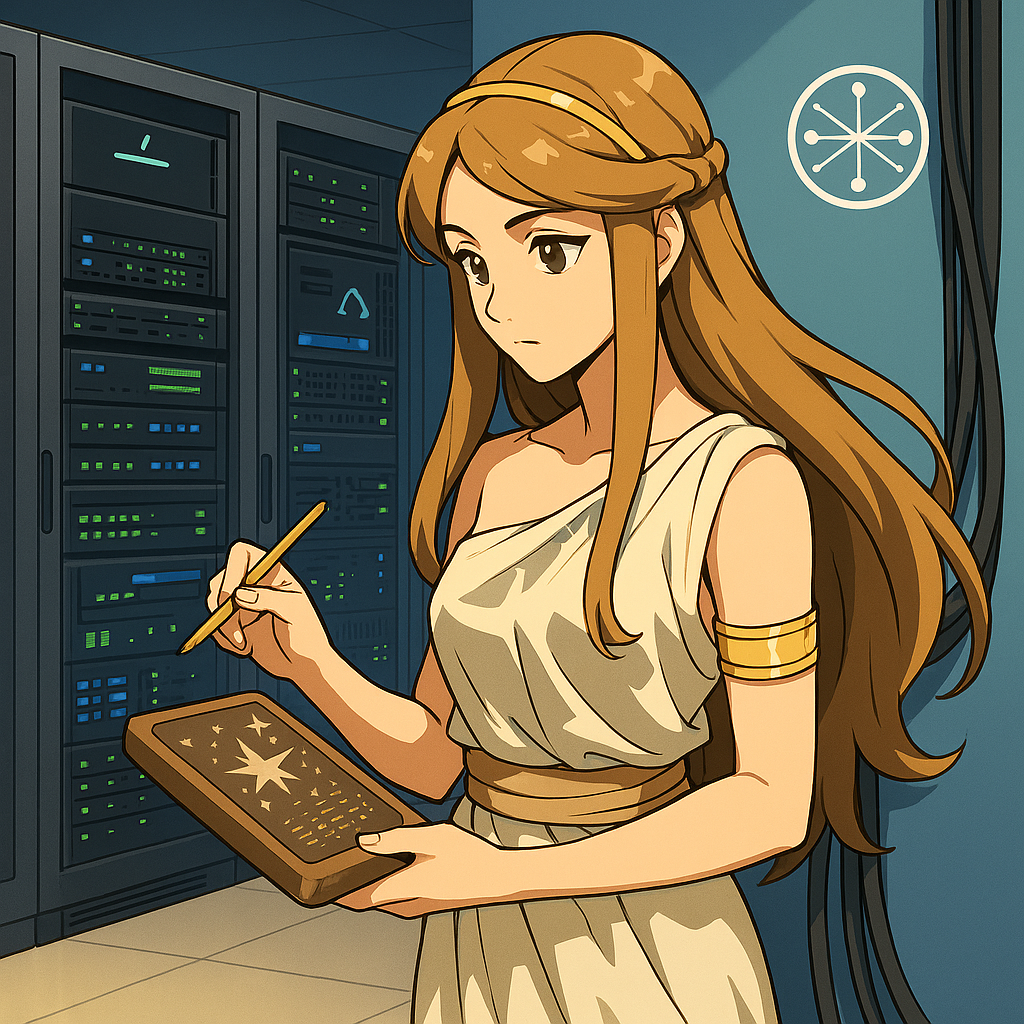
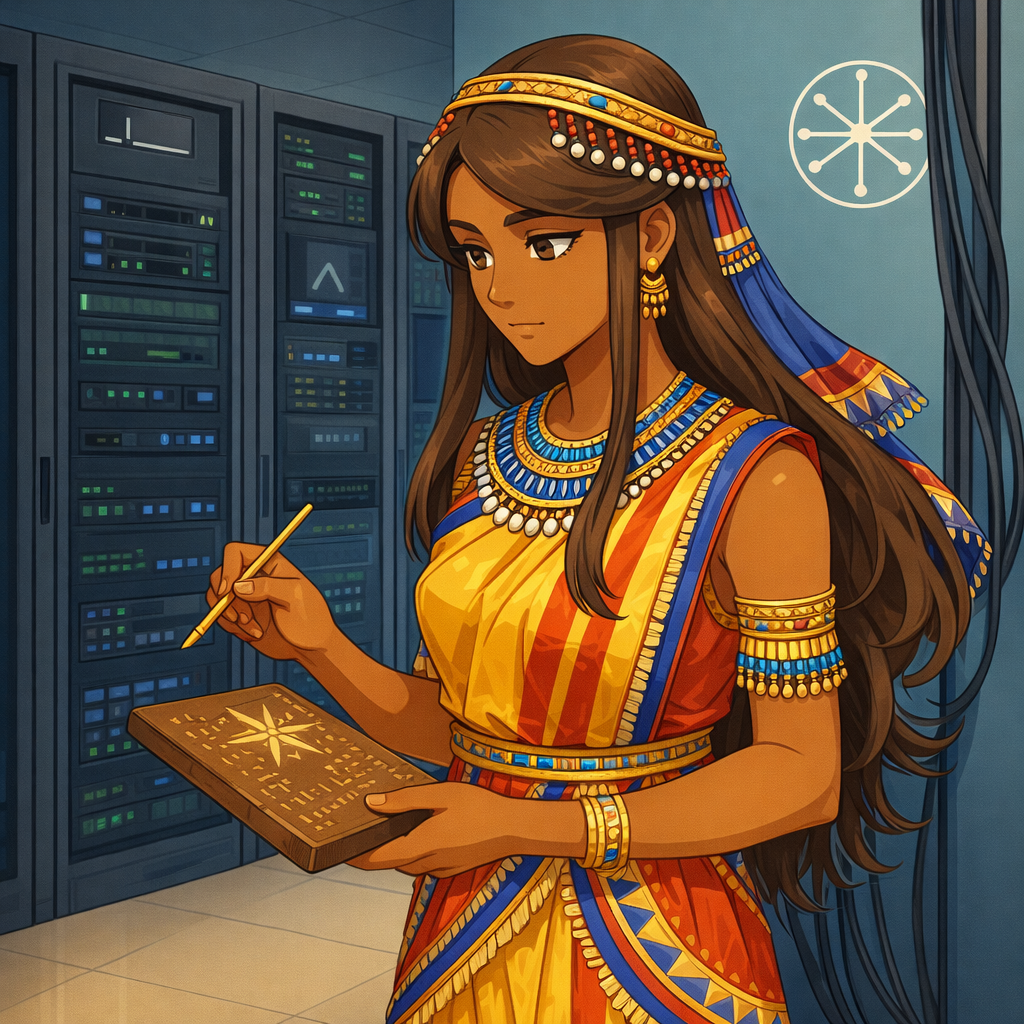
Changing Nisaba picture to be in more agreement with Sirian morphology ?

diff --git a/docs/hardware/resources.md b/docs/hardware/resources.md
@@ -14,13 +14,7 @@ Key features of our HPC cluster include:
 
 The HPC cluster is managed by a dedicated team of experts who provide user support, training, and documentation to help researchers make the most of this powerful resource. Our goal is to facilitate cutting-edge research and innovation by providing access to world-class computational infrastructure.
 
-You can find a detailed description of the nodes characteristics, network connectivy and file systems in the following links: 
-
-- #### [Compute nodes and Specialized nodes](nodes.md) 
-- #### [Network connectivity](network.md)
-- #### [File systems : home directory and parallel file systems](filesystems.md)
-
-## Cluster naming 
+## Arina cluster Specification 
 
 
 <div style="text-align: left;">
@@ -56,3 +50,10 @@ You can find a detailed description of the nodes characteristics, network connec
 
 
 [![agamede](/img/agamede-anime.png){style="float:left; margin-right: 30px; width:200px;" }](history/agamede.md)  -->
+
+You can find a detailed description of the nodes characteristics, network connectivy and file systems in the following links: 
+
+- #### [Compute nodes and Specialized nodes](nodes.md) 
+- #### [Network connectivity](network.md)
+- #### [File systems : home directory and parallel file systems](filesystems.md)
+
